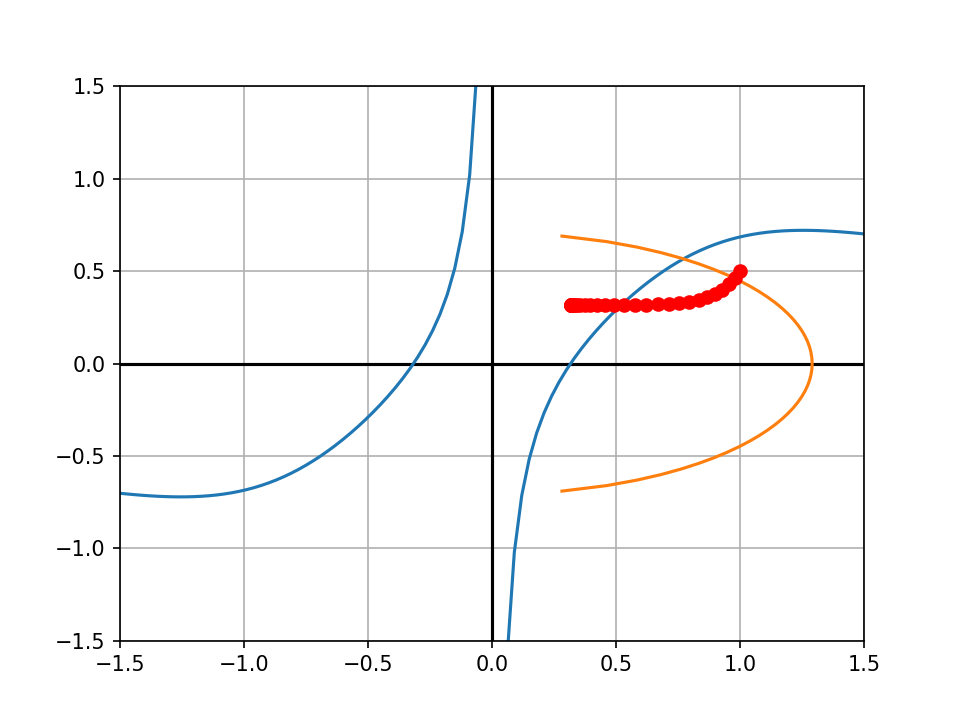
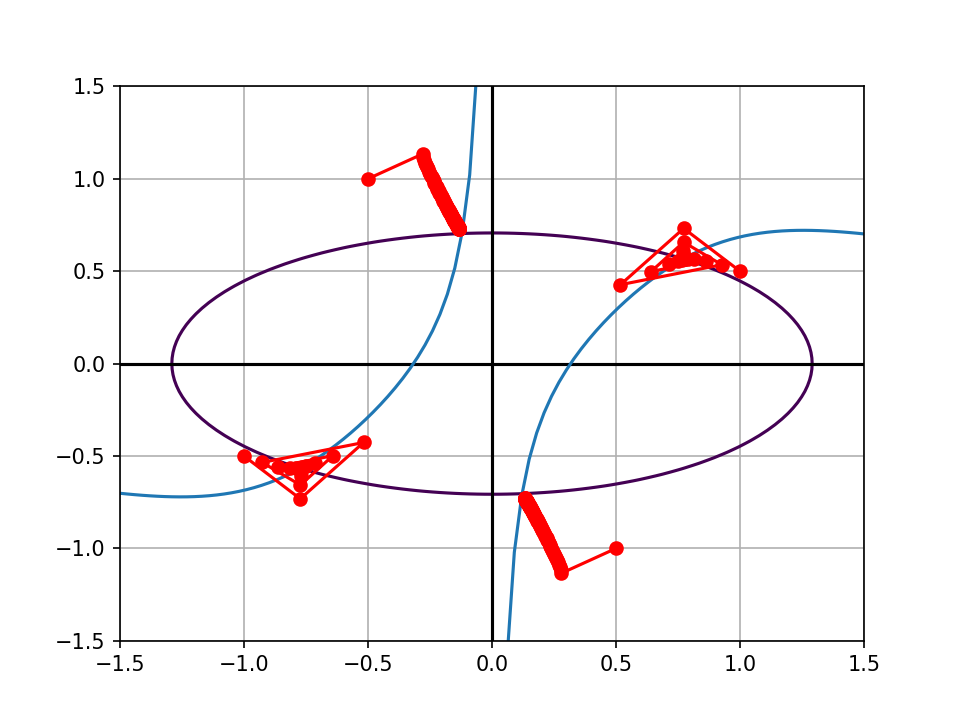
Done with fourth lab... :fist:

diff --git a/fourth/lib.py b/fourth/lib.py
@@ -1,7 +1,8 @@
 import itertools
+from decimal import Decimal
 
 import numpy as np
-from sympy import diff, symbols, Matrix, Symbol
+from sympy import diff, symbols, Matrix, Symbol, linsolve, pprint, Float, Add, sqrt
 
 
 def get_yakobi(F: Matrix, _symbols: str) -> Matrix:
@@ -18,14 +19,14 @@ def get_yakobi(F: Matrix, _symbols: str) -> Matrix:
 def newton_solve(sym, start, F, e):
     x_s, y_s = symbols(sym)
     count = 0
-    W = get_yakobi(F, 'x y').inv()
+    W = get_yakobi(F, sym).inv()
     x_old, y_old = start
     x_res, y_res = [x_old], [y_old]
 
     while True:
         count += 1
         X = Matrix([[x_old], [y_old]])
-        res: Matrix = X - W.subs({x_s: x_old, y_s: y_old}) * F.subs({x_s: x_old, y_s: y_old})
+        res = X - W.subs({x_s: x_old, y_s: y_old}) * F.subs({x_s: x_old, y_s: y_old})
         x, y = map(lambda x: float(x), itertools.chain.from_iterable(res.tolist()))
 
         x_res.append(x)
@@ -50,19 +51,62 @@ def easy_iter(F, x, symbol, e):
         return -r
 
 
-def iter_solve(start, F, e):
+def iter_solve(sym, X0: tuple, F, e):
+    x_s, y_s = symbols(sym)
     count = 0
-    x_old, y_old = start
+    x_old, y_old = X0
     x_res, y_res = [x_old], [y_old]
 
-    while True:
-        y = float(y_old - easy_iter(F[0], y_old, 'y', e) * F[0](y_old))
-        x = float(x_old - easy_iter(F[1], x_old, 'x', e) * F[1](x_old))
+    F_list = F.tolist()
+    f1: Add
+    f2: Add
+    f1, f2 = F_list[0][0], F_list[1][0]
+
+    df1_dx1 = diff(f1, x_s)
+    df1_dx2 = diff(f1, y_s)
+    df2_dx1 = diff(f2, x_s)
+    df2_dx2 = diff(f2, y_s)
+
+    df1_dx1_x0 = df1_dx1.subs({x_s: X0[0], y_s: X0[1]})
+    df1_dx2_x0 = df1_dx2.subs({x_s: X0[0], y_s: X0[1]})
+    df2_dx1_x0 = df2_dx1.subs({x_s: X0[0], y_s: X0[1]})
+    df2_dx2_x0 = df2_dx2.subs({x_s: X0[0], y_s: X0[1]})
+
+    la11, la12, la21, la22 = symbols('la11 la12 la21 la22')
+
+    eqns = [
+        1 + la11 * df1_dx1_x0 + la12 * df2_dx1_x0,
+        la11 * df1_dx2_x0 + la12 * df2_dx2_x0,
+        la21 * df1_dx1_x0 + la22 * df2_dx1_x0,
+        1 + la11 * df1_dx2_x0 + la22 * df2_dx2_x0,
+    ]
+    res = linsolve(eqns, [la11, la12, la21, la22])
+    la11, la22, la12, la21 = next(iter(res))
+
+    g1 = lambda x, y: x + la11 * f1.subs({x_s: x, y_s: y}) + la12 * f2.subs({x_s: x, y_s: y})
+    g2 = lambda x, y: y + la21 * f1.subs({x_s: x, y_s: y}) + la22 * f2.subs({x_s: x, y_s: y})
+
+    while True > e:
+        count += 1
+
+        x = float(g1(x_old, y_old))
+        y = float(g2(x_old, y_old))
 
         x_res.append(x)
         y_res.append(y)
-        if e > np.sqrt((x - x_old) ** 2 + (y - y_old) ** 2):
+
+        try:
+            _e = sqrt(sum([(x - x_old) ** 2, (y - y_old) ** 2]))
+        except OverflowError:
             break
-        x_old, y_old = x, y
+
+        if e >= _e:
+            break
+
+        if count > 100:
+            break
+
+        x_old = x
+        y_old = y
 
     return x_res, y_res, count

diff --git a/fourth/run.py b/fourth/run.py
@@ -1,8 +1,7 @@
 import numpy as np
 from matplotlib import pyplot as plt
 from numpy.ma import arctan
-from sympy import symbols, Matrix, atan, sqrt
-from sympy import tan
+from sympy import symbols, Matrix, atan, sqrt, tan
 
 from fourth.lib import newton_solve, iter_solve
 
@@ -24,41 +23,36 @@ F = _f2(X, Y)
 plt.contour(X, Y, F, [0])
 plt.plot(x, f1(x))
 
-# x_s, y_s = symbols('x y')
-# F = Matrix([
-#     [_f1(x_s, y_s)],
-#     [_f2(x_s, y_s)]
-# ])
+x_s, y_s = symbols('x y')
+F = Matrix([
+    [_f1(x_s, y_s)],
+    [_f2(x_s, y_s)]
+])
 
 e = 0.0001
 starts = [
     (1.0, 0.5),
-    # (0.0, -0.5),
-    # (-1.0, -0.5),
-    # (-0.0, 0.5),
+    (0.5, -1),
+    (-1.0, -0.5),
+    (-0.5, 1),
 ]
 
 # print('Метод Ньютона:')
 # for start in starts:
-#     x0, y0 = start
-#     x_res, y_res, count = newton_solve('x y', (x0, y0), F, e)
+#     x_res, y_res, count = newton_solve('x y', start, F, e)
 #     print(f'\tДля точки {start}:')
 #     print(f'\tКоличество итераций: {count}')
-#     print(f'\t\tx = {x_res[-1]}; y = {y_res[-1]}')
+#     print(f'\t\tx = {round(x_res[-1], 4)}; y = {round(y_res[-1], 4)}')
 #
 #     plt.plot(x_res, y_res, 'ro-', color='#ff0000')
 # plt.savefig('fig1.png', dpi=150)
 
-
-f1 = lambda x: (atan(x**2) - 0.1) / x   # y = ...
-f2 = lambda y: sqrt(5/3 - 10/3 * y**2)  # x = ...
-F = [f1, f2]
 print('Метод простых итераций:')
 for start in starts:
-    x_res, y_res, count = iter_solve(start, F, e)
+    x_res, y_res, count = iter_solve('x y', start, F, e)
     print(f'\tДля точки {start}:')
     print(f'\tКоличество итераций: {count}')
-    print(f'\t\tx = {x_res[-1]}; y = {y_res[-1]}')
+    print(f'\t\tx = {round(x_res[-1], 4)}; y = {round(y_res[-1], 4)}')
 
     plt.plot(x_res, y_res, 'ro-', color='#ff0000')
 

diff --git a/third/lib.py b/third/lib.py
@@ -40,7 +40,7 @@ def seidel_solve(A: np.matrix, B: np.matrix, **kwargs):
             s2 = sum(A.item(i, j) * x_old[j] for j in range(i + 1, n))
             x[i] = (B.item(i, 0) - s1 - s2) / A.item(i, i)
 
-        if np.sqrt(sum((x[i] - x_old[i]) ** 2 for i in range(n))) <= e:
+        if e >= np.sqrt(sum((x[i] - x_old[i]) ** 2 for i in range(n))):
             break
 
     return np.matrix([[i] for i in x])
